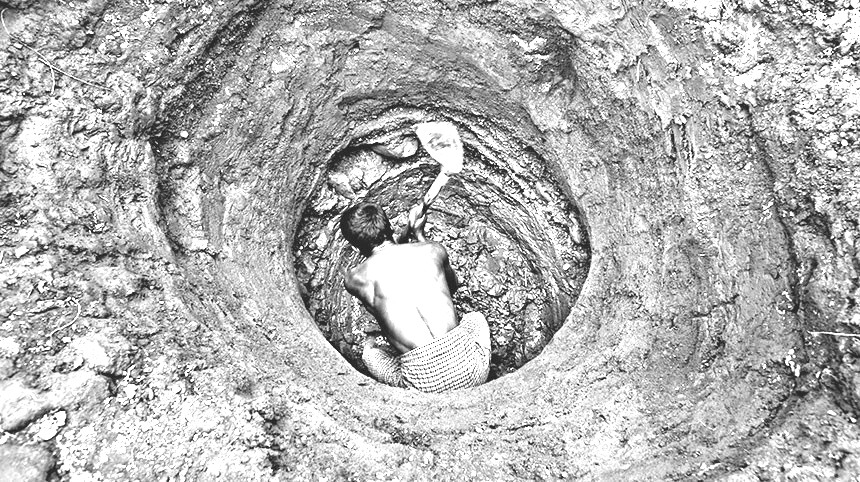
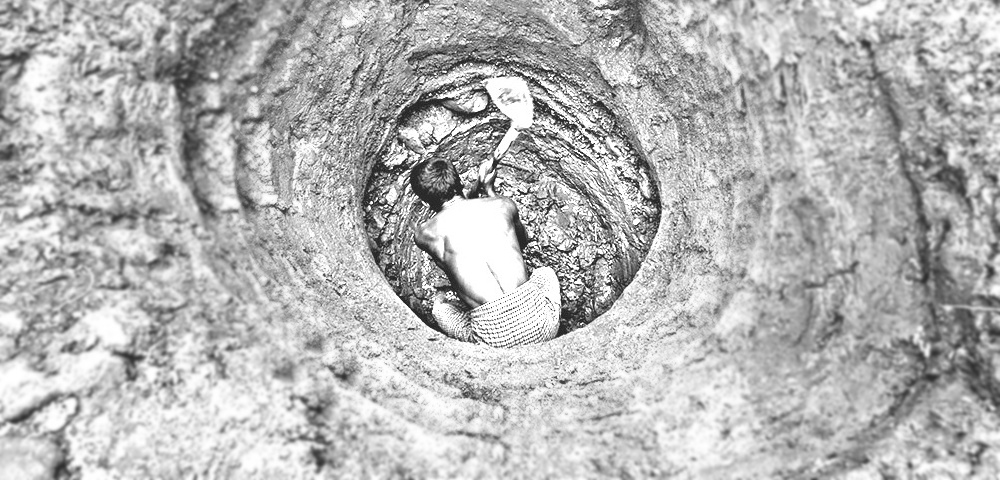
free yourself

diff --git a/public/stylesheets/main.css b/public/stylesheets/main.css
@@ -69,13 +69,8 @@ nav a {
     width: 59px;
     border-bottom: 2px solid #754f24;
     padding-bottom: 10px;
-}
 
-header {
-    background-color: #f5f5f5;
-    border-bottom: 1px solid #D5D5D5;
-    height: 105px;
-    padding-top: 5px;
+    line-height: 1.2em; /*without this height varies between firefox and chrome*/
 }
 
 #headerContainer {
@@ -154,6 +149,8 @@ input {
     border-radius: 1px;
     padding: 2px 4px;
     text-align: center;
+
+    line-height: 1.2em; /*without this height varies between firefox and chrome*/
 }
 
 #emailField {
@@ -234,18 +231,17 @@ input {
 
 #hole-section {
     text-align: center;
-    padding-bottom: 80px;
 }
 
-.scroll #hole-section > h1 {
-    padding-top: 60px;
-}
-
-#hole-section > h1 {
-    color: #222222;
-    height: 50px;
-    font-weight: 700;
+#hole-section h1 {
+    color: #444444;
+    font-weight: 400;
     font-family: 'Play', sans-serif;
+
+    padding-top: 1px;
+    background-color: rgba(255, 255, 255, 0.6);
+
+    margin-top: 40px;
 }
 
 #hole-section p {
@@ -264,13 +260,10 @@ input {
 
 #top {
     text-align: left;
-    border-left: 2px solid #000000;
 }
 
 #bottom {
     text-align: right;
-    border-right: 2px solid #000000;
-
 }
 
 #productBody {
@@ -294,7 +287,10 @@ p {
 }
 
 ol {
-    list-style: inside none lower-alpha;
+    /*do not optimize, fails in chrome*/
+    list-style-type: lower-alpha;
+    list-style-position: inside;
+    list-style-image: none;
     padding: 10px;
 }
 
@@ -340,6 +336,8 @@ section {
 section .text {
     line-height: 1.7;
     word-spacing: 2px;
+    display: table;
+    width: 100%;
 }
 
 #bottleneck-section {
@@ -360,7 +358,7 @@ section em {
 }
 
 #bottle {
-    background: url("/assets/images/bottle_you.png") no-repeat scroll;
+    background: url("/assets/images/bottle_you2.png") no-repeat scroll;
     background-size: contain;
     background-position: center;
     height: 100px;
@@ -368,6 +366,50 @@ section em {
 
 #oneplace-section h2 {
     text-align: left;
+}
+
+#tree {
+    background: url("/assets/images/tree2.png") no-repeat scroll;
+    background-size: contain;
+    background-position: center;
+    height: 200px;
+    margin-top: 20px;
+}
+
+#free-yourself .text {
+    line-height: 200%;
+}
+
+#brain1 {
+    background: url("/assets/images/brain1.png") no-repeat scroll;
+    background-size: contain;
+    background-position: top;
+    height: 150px;
+}
+
+#brain2 {
+    background: url("/assets/images/brain2.png") no-repeat scroll;
+    background-size: contain;
+    background-position: top;
+    height: 250px;
+}
+
+#brain3 {
+    background: url("/assets/images/brain3.png") no-repeat scroll;
+    background-size: contain;
+    background-position: top;
+    height: 150px;
+}
+
+.caption {
+    font-size: 8pt;
+    text-align: center;
+    vertical-align: bottom;
+    display: table-cell;
+}
+
+#free-yourself .text {
+    margin-top: 10px;
 }
 
 footer {
@@ -415,13 +457,28 @@ footer {
     }
 
     section .text {
-        display: block;
         float: left;
         width: 47%;
     }
 
     section .right {
         float: right;
+    }
+
+    #tree {
+        height: 350px;
+    }
+
+    .brain1 {
+        padding-top: 30px;
+    }
+
+    .brain2 {
+        padding-top: 90px;
+    }
+
+    .brain3 {
+        padding-top: 60px;
     }
 }
 
@@ -501,6 +558,22 @@ footer {
         padding: 20px 50px 50px 50px;
     }
 
+    #hole-section {
+        padding-top: 40px;
+    }
+
+    #top {
+        border-left: 2px solid #000000;
+    }
+
+    #bottom {
+        border-right: 2px solid #000000;
+    }
+
+    #tree {
+        height: 500px;
+    }
+
 }
 
 @media screen and (min-width: 750px) {
@@ -527,7 +600,6 @@ footer {
     }
 
     #hole-section > div {
-        margin-top: 40px;
         margin-left: 2%;
         margin-right: 2%;
     }
@@ -541,7 +613,7 @@ footer {
     }
 
     #background {
-        background: url("/assets/images/hole.jpg") no-repeat scroll;
+        background: url("/assets/images/hole2.jpg") no-repeat scroll;
         background-size: cover;
         background-position: top;
     }
@@ -557,7 +629,6 @@ footer {
 
     #headerContainer {
         height: 177px;
-        /*background-color: rgba(117, 79, 36, 0.10);*/
         background-color: rgba(115, 90, 40, 0.20);
 
         -webkit-transition: height 1000ms ease, background-color 1000ms ease;
@@ -608,9 +679,29 @@ footer {
         transition: padding-top 1000ms ease;
     }
 
+    #hole-section {
+        padding-top: 85px;
+    }
+
+    .scroll #hole-section {
+        padding-top: 130px;
+    }
+
     #hole-section > div {
         margin-left: 10%;
         margin-right: 10%;
+    }
+
+    #brain1 {
+        height: 200px;
+    }
+
+    #brain2 {
+        height: 400px;
+    }
+
+    #brain3 {
+        height: 200px;
     }
 }
 
@@ -621,12 +712,8 @@ footer {
         font-weight: 600;
     }
 
-    #hole-section > div {
-        margin-top: 160px;
-    }
-
-    #hole-section {
-        padding-bottom: 270px;
+    #hole-section h1 {
+        margin-top: 180px;
     }
 
     .suede-top {
@@ -635,7 +722,6 @@ footer {
 
     #headerContainer {
         height: 252px;
-        /*background-color: rgba(117, 79, 36, 0.10);*/
         background-color: rgba(115, 90, 40, 0.20);
     }
 

diff --git a/app/views/productTail.scala.html b/app/views/productTail.scala.html
@@ -8,15 +8,16 @@
 
     <div class="text right">
         <p>
-        Ergle is <em>one place</em> that reflects the work you do everywhere,
+        Ergle is <em>one place</em> that reflects the work you do everywhere
         </p>
 
         <ul>
-            <li>to share it automatically and securely,</li>
+            <li>to share it automatically and securely</li>
             <li>with just one place to look.</li>
         </ul>
     </div>
     <div style="clear : both"></div>
+    <div id="tree">&nbsp;</div>
 
 </section>
 
@@ -27,17 +28,17 @@
 
     <div class="text" id="bottle">&nbsp;</div>
     <div class="text right">
-            <p>
-                <em>Email and file systems are dead-ends for operational information.</em></p>
-            <p>
-                Email hits your inbox like a rock down a well. So:
-            </p>
-            <ol>
-                <li>no one else can act and</li>
-                <li>you have to.</li>
-            </ol>
+        <p>
+            <em>Email and file systems are dead-ends for operational information.</em></p>
+        <p>
+                Email drops into your inbox like a rock down a well. So:
+        </p>
+        <ol>
+            <li>no one else can act and</li>
+            <li>you have to.</li>
+        </ol>
 
-        </div>
+    </div>
 
     <div style="clear : both"></div>
 
@@ -49,4 +50,35 @@
     <p class="text right"><em>People search by emailing someone</em> - back to where we started.
     </p>
     <div style="clear : both"></div>
+</section>
+
+
+<section id="free-yourself">
+    <h2>Free yourself</h2>
+
+    <p class="text brain1">
+            Take what you know about what to share with whom and give it to a system that does all the sharing for you.
+    </p>
+    <div class="text right" id="brain1"><p class="caption">Fig 1: A brain engaged in &#34;bit-shuffling&#34;</p></div>
+
+    <div style="clear : both"></div>
+
+
+    <div class="text" id="brain2"><p class="caption">Fig 2: A brain freed from &#34;bit-shuffling&#34;</p></div>
+    <p class="text right brain2">
+        The system monitors emails, local and shared file, web, mobile
+        and your own systems to update the events stream - applying sharing and visibility settings that you've defined.
+    </p>
+
+
+    <div style="clear : both"></div>
+
+    <p class="text brain3">
+        Other people can be notified when something is shared or just have it available to browse when they want.
+    </p>
+    <div class="text right" id="brain3"><p class="caption">Fig 3: Other brains admire and envy the freed brain</p></div>
+
+
+    <div style="clear : both"></div>
+
 </section>

diff --git a/app/views/index.scala.html b/app/views/index.scala.html
@@ -4,7 +4,7 @@
 <!DOCTYPE html>
 <html>
     <head>
-        <link href='http://fonts.googleapis.com/css?family=Play:700|Jura:400,500,600' rel='stylesheet' type='text/css'>
+        <link href='http://fonts.googleapis.com/css?family=Play:400|Jura:400,500,600' rel='stylesheet' type='text/css'>
         <meta name="viewport" content="width=device-width,initial-scale=1.0">
         <link rel="shortcut icon" href="@routes.Assets.at("images/favicon.ico")" type="image/ico" />
         <link rel="stylesheet" media="screen" href="@routes.Assets.at("stylesheets/reset.css")">

diff --git a/app/views/product.scala.html b/app/views/product.scala.html
@@ -1,5 +1,4 @@
 <div id="hole-section">
-    <h1>Working in a Hole?</h1>
 
     <div>
         <p id="top">Computers <em>hide</em> our work from colleagues and clients.
@@ -7,5 +6,7 @@
 
         <p id="bottom">Ergle uses technology to make sharing <em>effortless</em>.</p>
         <div style="clear : both"></div>
+
     </div>
+    <h1 >Working in a Hole?</h1>
 </div>
